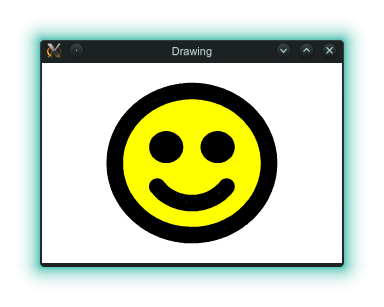
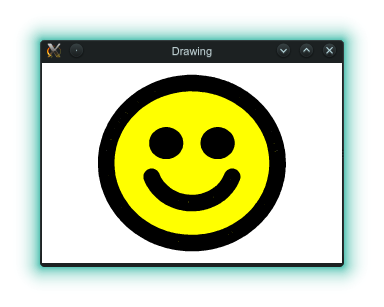
docs

Changed region(s): [[0.25, 0.2345, 0.75, 0.8208], [0.4688, 0.4397, 0.5312, 0.4984]]

diff --git a/README.md b/README.md
@@ -37,17 +37,17 @@ julia> using Drawing
 
 julia> with(Axes(centred=true), Pen(0.2)) do
 		   paint(Ink("yellow")) do
-			   circle(0.9)
+			   circle(1)           # face background, painted yellow
 		   end
 		   draw() do
-			   circle(0.9)
-			   circle(0.5; from=-4pi/5, to=-pi/5)
+			   circle(1)           # face outline, drawn black (default)
+			   circle(0.5; from=200deg, to=340deg)    # smile
 		   end
 		   paint() do
-			   move(0.3, 0.2)
-			   circle(0.2)
-			   move(-0.3, 0.2)
-			   circle(0.2)
+			   move(0.3, 0.25)     # right eye position
+			   circle(0.2)         # paint eye
+			   move(-0.3, 0.25)    # left eye position
+			   circle(0.2)         # paint eye
 		   end
 	   end
 Press RETURN to close window
